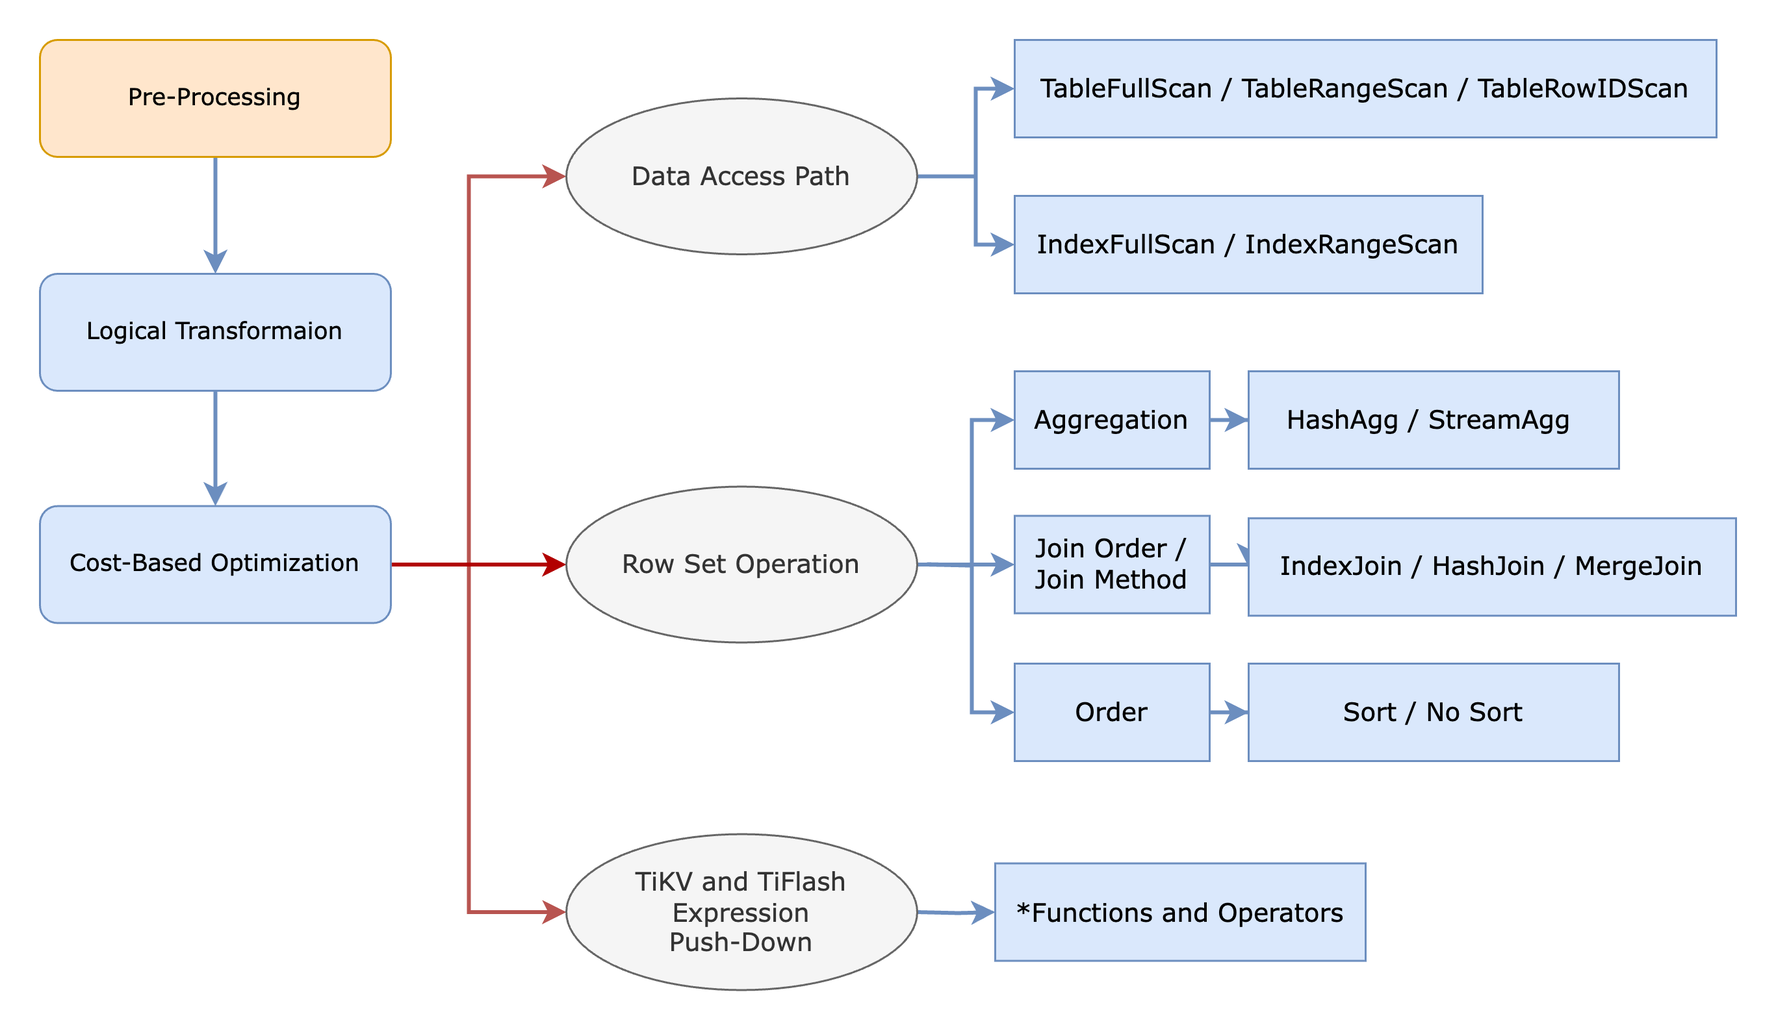
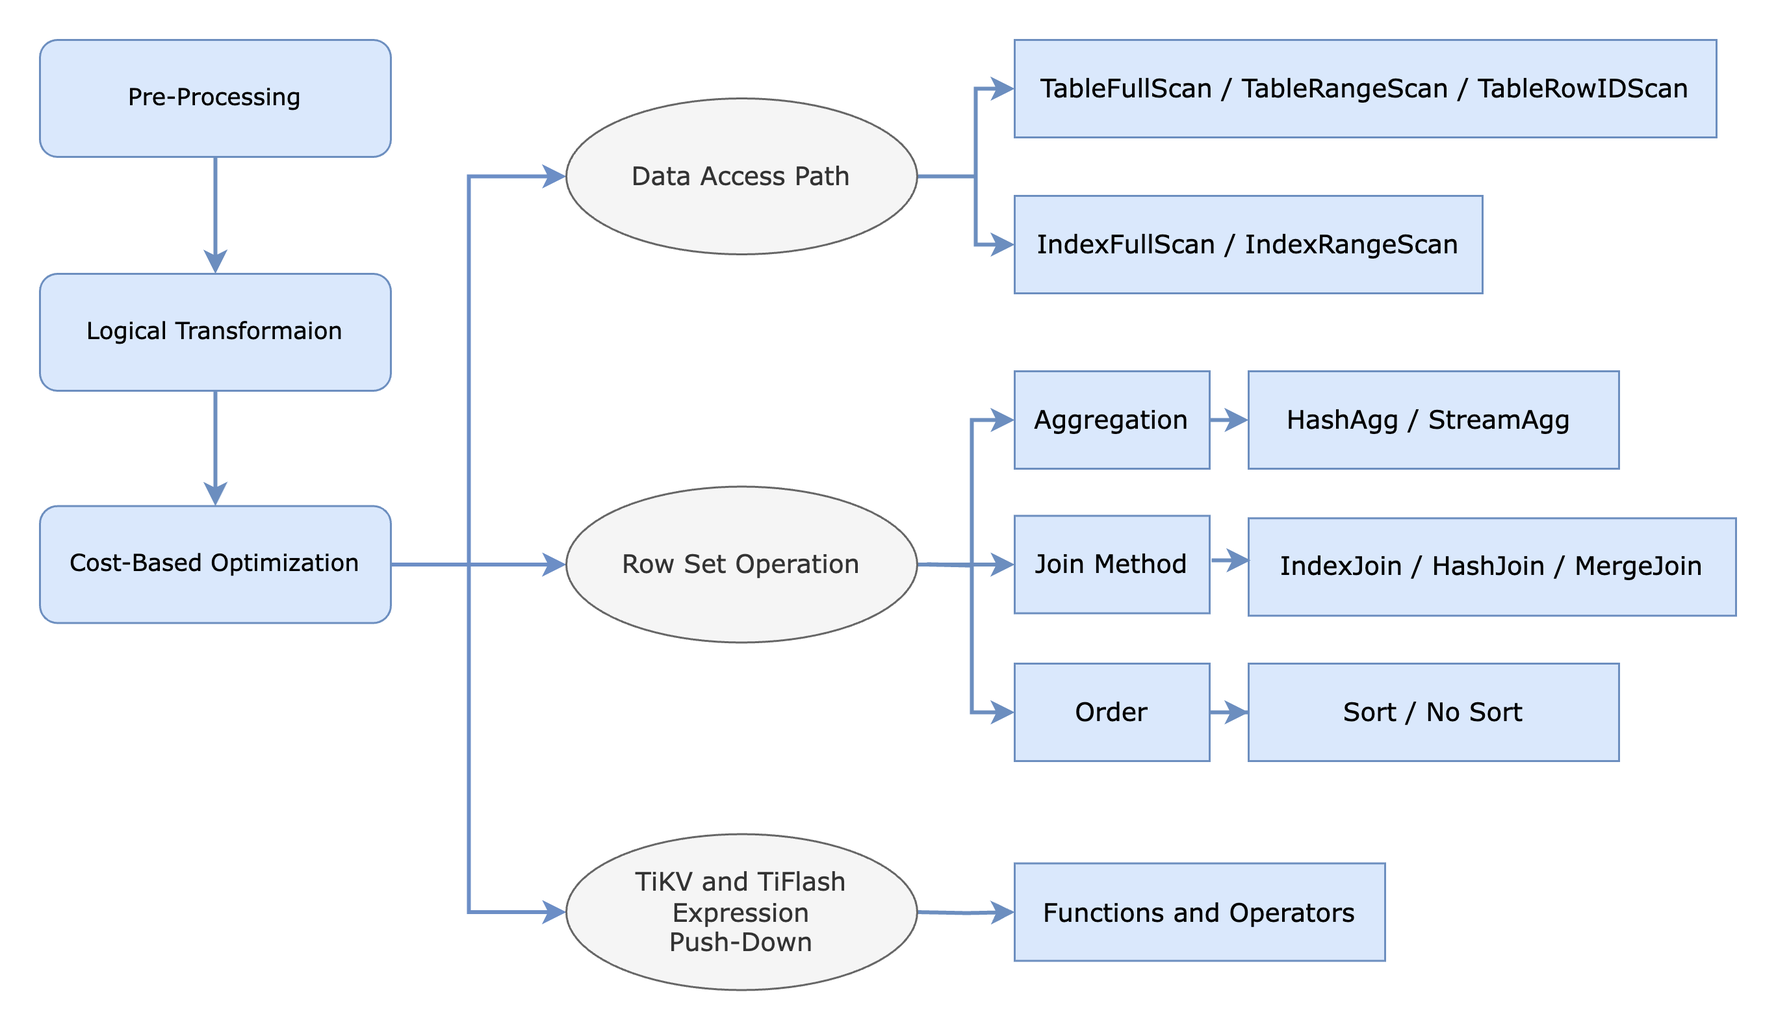
address comments;

diff --git a/sql-tuning-best-practice.md b/sql-tuning-best-practice.md
@@ -92,8 +92,6 @@ SQL statements are normalized as templates, where literals and bind variables ar
 
 ### Slow Queries Panel Default Display
 
-In the TiDB Dashboard, we can find the Slow Query panel, which displays all SQL statements whose execution time exceeds the time threshold set by the system variable tidb_slow_log_threshold (default 300 milliseconds). 
-
 On Slow Queries panel, we can find:
 
 1. The slowest SQL queries.
@@ -141,9 +139,9 @@ This guide focuses on providing actionable advice for beginners looking to optim
 
 ## Query Processing Workflow
 
-The client sends a SQL statement to the protocol layer of TiDB server. The protocol layer is responsible for handling the connection between TiDB Server and the client, receiving SQL statement from the client, and returning data to the client.
+The client sends a SQL statement to the protocol layer of TiDB server. The protocol layer is responsible for handling the connection between TiDB server and the client, receiving SQL statement from the client, and returning data to the client.
 
-To the right of the protocol layer is the Optimizer layer of TiDB Server, which is responsible for processing SQL statements. The process is as follows:
+To the right of the protocol layer is the optimizer of TiDB server, which is responsible for processing SQL statements. The process is as follows:
 
 1. SQL statement arrives at the SQL optimizer through the protocol layer and is first parsed into an Abstract Syntax Tree (AST).
 2. Pre-Process is primarily for Point Get, a simple, one table lookup through a Primary or Unique Key like `SELECT * FROM t WHERE pk_col = X` or `SELECT * FROM t WHERE uk_col IN (X,Y,Z)`. If it is a Point Get, the following-up optimization processes can be skipped, the next step jumps to the SQL Executor.
@@ -151,7 +149,7 @@ To the right of the protocol layer is the Optimizer layer of TiDB Server, which 
 4. The AST that has gone through Logical Transformation will undergo Cost-Based Optimization.
 5. During Cost-Based Optimization, the optimizer considers statistics to determine how to select specific operators and finally generates a physical execution plan.
 6. The generated physical execution plan is sent to the SQL Executor of the TiDB node for execution.
-7. Unlike traditional databases, TiDB databases need to push down the execution plan to different TiKV or TiFlash for reading and writing data.
+7. Unlike traditional single node databases, TiDB will push down operators/coprocessors to TiKV and/or TiFlash nodes containing the data, to process the parts of the execution plan where the data is stored, to more efficiently utilize the distributed nature, use resources in parallel, and send less data over the network. The executor in the TiDB node will assemble the final result and send it back to the client.
 
 ![workflow](/media/sql-tuning/workflow-tiflash.png)
 
@@ -178,10 +176,10 @@ The optimizer is as good as the information it receives. Therefore, ensuring up-
 
 Statistics are essential to the TiDB optimizer. TiDB uses statistics as input to the optimizer to estimate the number of rows processed in each plan step for a SQL statement.
 
-Statistics is generally divided into two levels: table level and column level. 
+Statistics is generally divided into two levels: table level and index/column level. 
 
-- For table-level statistics, it includes the total number of rows in the table and the number of rows that have been modified since the last collection of statistics. 
-- The column-level statistics information is more abundant, including histograms, Count-Min Sketch, Top-N (values or indexes with the highest occurrences), distribution and quantity of different values, and the number of null values, and so on.
+- For table level statistics, it includes the total number of rows in the table and the number of rows that have been modified since the last collection of statistics. 
+- The index/column level statistics information is more abundant, including histograms, Count-Min Sketch, Top-N (values or indexes with the highest occurrences), distribution and quantity of different values, and the number of null values, and so on.
 
 To ensure the statistics are healthy and representative, you can use the following commands:
 
@@ -200,7 +198,7 @@ SHOW STATS_META WHERE table_name='T2'\G;
        Table_name: T2
    Partition_name:
       Update_time: 2023-05-11 02:16:50
-     Modify_count: 20000
+     Modify_count: 10000
         Row_count: 20000
 1 row in set (0.03 sec)
 ```
@@ -214,7 +212,7 @@ SHOW STATS_HEALTHY WHERE table_name='T2'\G;
        Db_name: test
     Table_name: T2
 Partition_name:
-       Healthy: 0
+       Healthy: 50
 1 row in set (0.00 sec)
 ```
 
@@ -237,15 +235,11 @@ SHOW VARIABLES LIKE 'tidb\_auto\_analyze%';
 +-----------------------------------------+-------------+
 ```
 
-There are cases where automatic collection doesn't meet your needs. The analyze windown by default is 00:00 to 23:59, which means the analyze job can be triggered any time during the day. If you want to trigger the analyze job only during certain hours, you can set the start time and end time, to avoid performance impact for the online business.
+There are cases where automatic collection doesn't meet your needs. The analyze windown by default is `00:00` to `23:59`, which means the analyze job can be triggered any time during the day. If you want to trigger the analyze job only during certain hours, you can set the start time and end time, to avoid performance impact for the online business.
 
-You can manually collect statistics using the `ANALYZE TABLE table_name` statement. This allows you to:
+You can manually collect statistics using the `ANALYZE TABLE table_name` statement. This allows you to adjust the default settings, such as the sample rate, number of top-N values, or only gathering statistics for specific columns only. 
 
-1. Adjust the sample rate for more accurate or faster analysis
-2. Increase the number of top-N values collected
-3. Gather statistics for specific columns only or for all columns
-
-It's important to note that after manual collection, subsequent automatic gathering jobs will inherit the new parameters. This means that any customizations you've made during manual collection will be carried forward in future automatic analyses.
+It's important to note that after manual collection, subsequent automatic gathering jobs will inherit the new settings. This means that any customizations you've made during manual collection will be carried forward in future automatic analyses.
 
 Another common scenario is locking table statistics. This is useful when:
 
@@ -274,27 +268,35 @@ The main actions in the pre-processing stage it to determine if the SQL statemen
 Example:
 
 ```sql
-SELECT id, name FROM emp WHERE id = 901; 
+explain SELECT id, name FROM emp WHERE id = 901;
+```
+
+```
++-------------+---------+------+---------------+---------------+
+| id          | estRows | task | access object | operator info |
++-------------+---------+------+---------------+---------------+
+| Point_Get_1 | 1.00    | root | table:emp     | handle:901    |
++-------------+---------+------+---------------+---------------+
 ```
 
 ### Logical Transformation
 
-The purpose of logical Transformation is to optimize the execution of statements based on the characteristics of SELECT list, WHERE predicates, and other predicates in SQL queries. It generates a logical execution plan to annotate and rewrite the query. This logical plan is then passed to the Cost-Based Optimization. The optimization rules include column pruning，partition pruning，eliminate Max/Min, eliminate outer join, join reorder, predicates push-down，subquery rewrite，derive TopN from window functions，and de-correlation of correlated Subquery. Since this step is rule-based and fully automated by the query optimizer, it usually does not require manual adjustments.
+The purpose of logical Transformation is to optimize the execution of statements based on the characteristics of SELECT list, WHERE predicates, and other predicates in SQL queries. It generates a logical execution plan to annotate and rewrite the query. This logical plan is then passed to the Cost-Based Optimization. The optimization rules are such as column pruning, partition pruning, join reorder etc. Since this step is rule-based and automated by the query optimizer, in most casesit usually does not require manual adjustments.
 
 More Detail for Logical Transformation: [SQL Logical Optimization](/sql-logical-optimization.md).
 
 ### Cost-Based Optimization
 
-TiDB uses statistics as input to the optimizer to estimate the number of rows processed in each plan step for a SQL statement, and associates a cost with each plan step. The Cost-Based Optimization estimates the cost of each available plan choice, including index accesses and the sequence of table joins, and produces a cost for each available plan. The optimizer then picks the execution plan with the lowest overall cost.
+TiDB uses statistics as input to the optimizer to estimate the number of rows processed in each plan step for a SQL statement, and associates a cost with each plan step. The Cost-Based Optimization estimates the cost of each available plan choice, including index accesses and join methods, and produces a cost for each available plan. The optimizer then picks the execution plan with the lowest overall cost.
 
 The following figure illustrates the various data access paths and row set operations that cost-based optimization can consider when developing the optimal execution plan. For data access paths, the optimizer determines the most efficient method to retrieve data, whether through an index scan or a table scan, and whether to retrieve the data from row-based TiKV or columnar-based TiFlash storage.
 
-Also, the optimizer need to evaluate operations that manipulate row sets, such as aggregation, join, and sorting. For instance, the aggregation operator may utilize either `HASH_AGG` or `STREAM_AGG`, while the join operator can select from `HASH JOIN`, `MERGE JOIN`, or `INDEX JOIN`. 
+Also, the optimizer need to evaluate operations that manipulate row sets, such as aggregation, join, and sorting. For instance, the aggregation operator may utilize either `HashAgg` or `StreamAgg`, while the join method can select from `HashJoin`, `MergeJoin`, or `IndexJoin`. 
 
 Furthermore, expression and operator push-down to the physical storage engines is part of the physical optimization phase. The physical plan is  distributed to different components based on the underlying storage engines:
 
 - Root Task runs at the TiDB layer
-- Cop (Coprocessor) Task runs at the TiKV or TiFlash layer
+- Cop (Coprocessor) Task runs at the TiKV layer
 - MPP (Massively Parallel Processing) Task runs at the TiFlash layer
 
 This distribution of the physical plan allows the different components to collaborate and execute the query efficiently.
@@ -313,7 +315,7 @@ Beside access the execution plan information through TiDB Dashboard, TiDB provid
 
 - id: Operator name and the step unique identifier
 - estRows: Estimated number of rows from the particular step
-- task: Indicates the layer where the operator is executed. For instance, `root` indicates execution at the TiDB layer, whereas `cop[tikv]` indicates execution at the TiKV layer. 
+- task: Indicates the layer where the operator is executed. For instance, `root` indicates execution at the TiDB layer, whereas `cop[tikv]` indicates execution at the TiKV layer, and `mpp[tiflash]` indicates execution at the TiFlash layer. 
 - access object: The object where the row sources are located
 - operator info: Extended information about the operator regarding the step
 
@@ -339,7 +341,7 @@ Additional Information in [EXPLAIN ANALYZE](sql-statements/sql-statement-explain
 Description
 
 - actRows: Number of rows output by the operator.
-- execution info: Detailed execution information of the operator. time represents the total wall time from entering the operator to leaving the operator, including the total execution time of all sub-operators. If the operator is called many times by the parent operator then the time refers to the accumulated time. loops is the number of times the current operator is called by the parent operator.
+- execution info: Detailed execution information of the operator. `time` usually represents the total wall time, including the total execution time of all sub-operators. If the operator is called many times by the parent operator then the time refers to the accumulated time.
 - memory: Memory used by the operator.
 - disk: Disk space used by the operator.
 
@@ -383,17 +385,19 @@ FROM (
 
 ### Reading Execution Plans: First Child First
 
-To understand why SQL queries run slowly, it's very important to know how to read Execution Plans. The main rule for reading an execution plan is "first child first – recursive descent". Each operator of the plan produces rows of data. When we talk about how a plan runs, we really mean the order in which each operator produces its rows. The "first child first" rule means that to produce its rows, each operator of the plan asks its child operators to produce their rows first. Then it combines these rows in some way. The order in which it asks its child parts is the same as the order they appear in the plan.
+To understand why SQL queries run slowly, it's very important to know how to read Execution Plans. The main rule for reading an execution plan is "first child first – recursive descent". Each operator in the plan produces a set of rows, and the execution order determines how these rows flow through the plan tree. 
 
-There are three important details to add to this:
+The "first child first" rule means that before an operator can produce its output rows, it must first get the rows from all its child operators. For example, a join operator needs rows from both its child operators before it can perform the join operation. The "recursive descent" rule means we analyze the plan from top to bottom, but the actual data flows from bottom to top, as each operator depends on its children's output.
+
+The traversal of the execution plan follows a top-to-bottom, first-child-first approach. This traversal pattern corresponds to a postorder (Left, Right, Root) traversal of the plan tree.
+
+There are two important details to add to this:
 
 1. Parent-Child Interaction: Although a parent operator calls its child operators in sequence, it may cycle through them multiple times. For example, in an index lookup or nested loop join, the parent fetches a batch of rows from the first child, then (zero or more) rows from the second child, repeating this process until it consumes the entire result set from the first child.
 
 2. Blocking vs. Non-blocking Operators: Operators can be either blocking or non-blocking. Blocking operators, such as `TopN` and `HashAgg`, must create their entire result set before passing anything to their parent. Non-blocking operators, like `IndexLookup` and `IndexJoin`, create and pass their row source piece by piece on demand.
 
-3. Concurrent vs. Serial Execution: Child operators can be executed concurrently or serially. For instance, the child operators of an `IndexLookup` operator are executed serially, while those of a `HashJoin` operator can be executed concurrently.
-
-Let's apply the "first child first – recursive descent" rule to the first plan. When reading an execution plan, you should start from the top and work your down bottom. In the below example begin by looking at the `TableFullScan_18` (or the first child of the tree). In this case the access operator for table trips are implemented using full table scan. The rows produced by the tables scans will be consumed by the `Selection_19` operator. The `Selection_19` operator is to filter the data by `ge(trips.start_date, 2017-07-01 00:00:00.000000), le(trips.start_date, 2017-07-01 23:59:59.000000)`. Next the group-by operator `StreamAgg_9` is to implemented the aggregation `count(*)`. Be noted that the 3 operators `TableFullScan_18`, `Selection_19`, `StreamAgg_9` are pushdown to TiKV, which is marked as `cop[tikv]`, so that early filter and aggregation can be done in TiKV, to minize the data transfer between TiKV and TiDB. Finally the `TableReader_21` is to read the data from the `StreamAgg_9` operator, then finally the `StreamAgg_20` is to implemented the aggregation `count(*)`.
+Let's apply the "first child first – recursive descent" rule to the first plan. When reading an execution plan, you should start from the top and work your down bottom. In the below example, the final child operator is `TableFullScan_18` (or the leaf node of the plan tree). In this case the access operator is full table scan. The rows produced by the tables scans will be consumed by the `Selection_19` operator. The `Selection_19` operator is to filter the data by `ge(trips.start_date, 2017-07-01 00:00:00.000000), le(trips.start_date, 2017-07-01 23:59:59.000000)`. Next the group-by operator `StreamAgg_9` is to implemented the aggregation `count(*)`. Be noted that the 3 operators `TableFullScan_18`, `Selection_19`, `StreamAgg_9` are pushdown to TiKV, which is marked as `cop[tikv]`, so that early filter and aggregation can be done in TiKV, to minize the data transfer between TiKV and TiDB. Finally the `TableReader_21` is to read the data from the `StreamAgg_9` operator, then finally the `StreamAgg_20` is to implemented the aggregation `count(*)`.
 
 ```sql
 EXPLAIN SELECT COUNT(*) FROM trips WHERE start_date BETWEEN '2017-07-01 00:00:00' AND '2017-07-01 23:59:59';
@@ -412,7 +416,7 @@ EXPLAIN SELECT COUNT(*) FROM trips WHERE start_date BETWEEN '2017-07-01 00:00:00
 5 rows in set (0.00 sec)
 ```
 
-Let's apply the "first child first – recursive descent" rule to the second plan. In the below example begin from the top to bottom, by looking at the `IndexRangeScan_47` (the first child of the tree). For the table `stars`, the optimizer only needs to select the column `name` and `id`, the two columns can be met by the index `name(name)`. So for the table `star`, the root reader is `IndexReader_48`, rather than a `TableReader`. The join method between `stars` and `planets` is a hash join, which is marked as `HashJoin_44`. The data access method on `planets` is a `TableFullScan_45`. After the join, the `TopN_26` and `TOPN_19` are to implement the `ORDER BY` and `LIMIT` clauses correspondingly. The final operator `Projection_16` is to implement the column projection for `t5.name`.
+Let's apply the "first child first – recursive descent" rule to the second plan. In the below example begin from the top to bottom, by looking at the `IndexRangeScan_47` (the first leaf of the plan tree). For the table `stars`, the optimizer only needs to select the column `name` and `id`, the two columns can be met by the index `name(name)`. So for the table `star`, the root reader is `IndexReader_48`, rather than a `TableReader`. The join method between `stars` and `planets` is a hash join, which is marked as `HashJoin_44`. The data access method on `planets` is a `TableFullScan_45`. After the join, the `TopN_26` and `TOPN_19` are to implement the `ORDER BY` and `LIMIT` clauses correspondingly. The final operator `Projection_16` is to implement the column projection for `t5.name`.
 
 ```sql
 EXPLAIN 
@@ -485,7 +489,7 @@ In the execution plan below, the query ran for 5 minutes and 51 seconds before b
 
 2. Memory overflow: Due to this underestimation, the hash join operator `HashJoin_69` attempts to build a hash table with far more data than anticipated. This results in excessive memory usage (22.6GB) and disk usage (7.65GB).
 
-3. Query termination: The `actRows` is 0 for `HashJoin_69` and subsequent operators, indicating that the hash join consumed too much memory, likely causing the query to be terminated by memory control mechanisms.
+3. Query termination: The `actRows` is 0 for `HashJoin_69` and the operators above, indicating either there is no rows matched or the query is terminated due to resource constraints. In this case, the hash join consumed too much memory, causing the query to be terminated by memory control mechanisms.
 
 4. Incorrect join order: The root cause of this inefficient plan is the severe underestimation of `estRows` for `IndexRangeScan_75`, which led to an incorrect join order decision by the optimizer.
 
@@ -516,7 +520,6 @@ Here is the expected execution plan after fixing the incorrect estimation on the
 1. Accurate estimation: The `estRows` values are now much closer to the `actRows`, indicating that the statistics have been updated and are more accurate.
 2. Efficient join order: The query now starts with a `TableReader` on the `labels` table, followed by an `IndexJoin` with the `rates` table, and finally another `IndexJoin` with the `orders` table. This join order is more efficient given the actual data distribution.
 3. No memory overflow: Unlike the previous plan, there are no signs of excessive memory or disk usage, indicating that the query executes within expected resource limits.
-4. Complete execution: All operators show non-zero `actRows`, confirming that the query completes successfully without being terminated due to resource constraints.
 
 This optimized plan demonstrates the importance of accurate statistics and proper join order in query performance. The dramatic reduction in execution time (from 351 seconds to 1.96 seconds) highlights the potential impact of addressing estimation errors and choosing appropriate execution strategies.
 
@@ -546,9 +549,9 @@ More Detail for understanding execution plans : [TiDB Query Execution Plan Overv
 
 ## Index Strategy in TiDB
 
-TiDB is a distributed SQL database that completely decouples the SQL layer (TiDB) from the storage layer (TiKV). Unlike traditional databases, TiDB does not have a buffer pool to cache data at the compute node. As a result, the performance of SQL queries and the TiDB cluster is closely tied to the number of key-value (KV) requests that need to be processed.
+TiDB is a distributed SQL database that completely decouples the SQL layer (TiDB) from the storage layer (TiKV). Unlike traditional databases, TiDB does not have a buffer pool to cache data at the compute node. As a result, the performance of SQL queries and the TiDB cluster is closely tied to the number of key-value (KV) RPC requests that need to be processed.
 
-In TiDB, leveraging indexes effectively is crucial for performance tuning, as it can significantly reduce the number of KV [RPC](/glossary.md#remote-procedure-call-rpc) requests. By minimizing these requests, you can greatly improve query performance and overall system efficiency. Here are some key strategies:
+In TiDB, leveraging indexes effectively is crucial for performance tuning, as it can significantly reduce the number of KV RPC requests. By minimizing these requests, you can greatly improve query performance and overall system efficiency. Here are some key strategies:
 
 - Avoiding full table scans
 - Avoiding sorting
